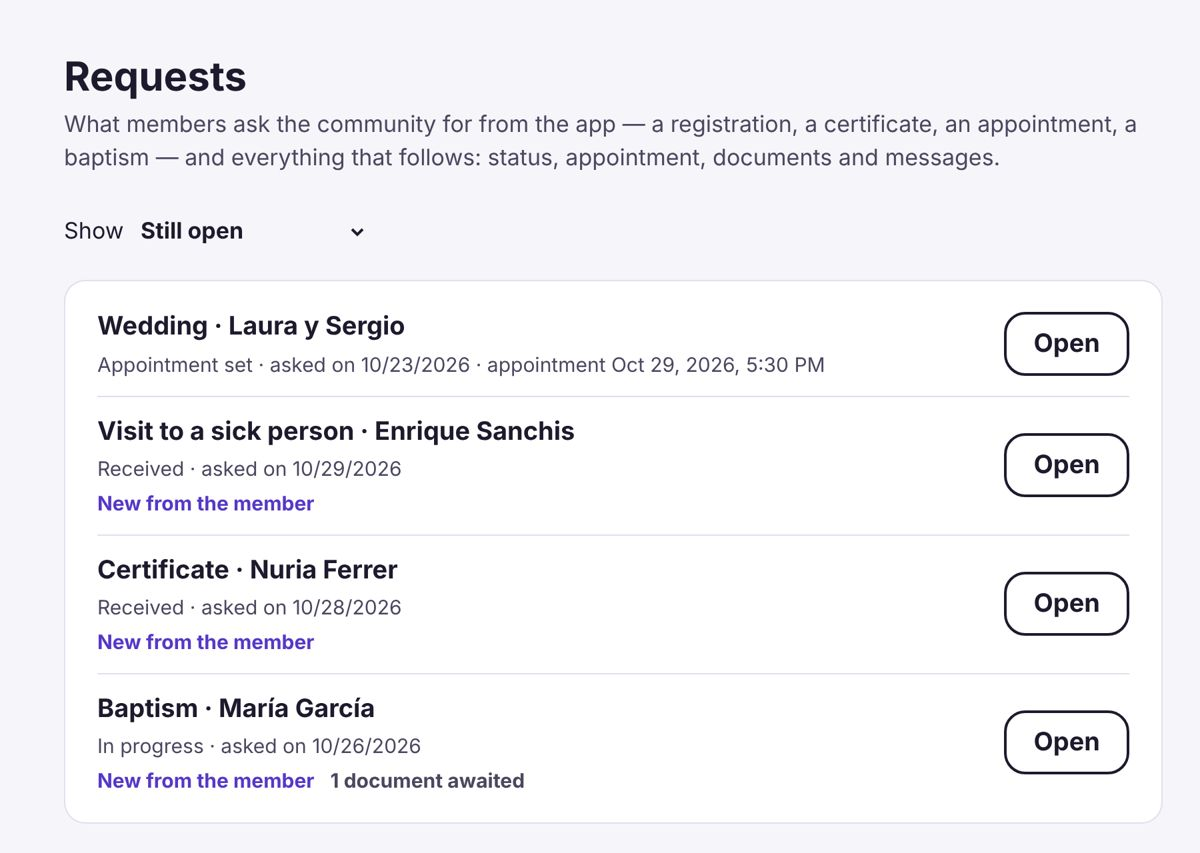
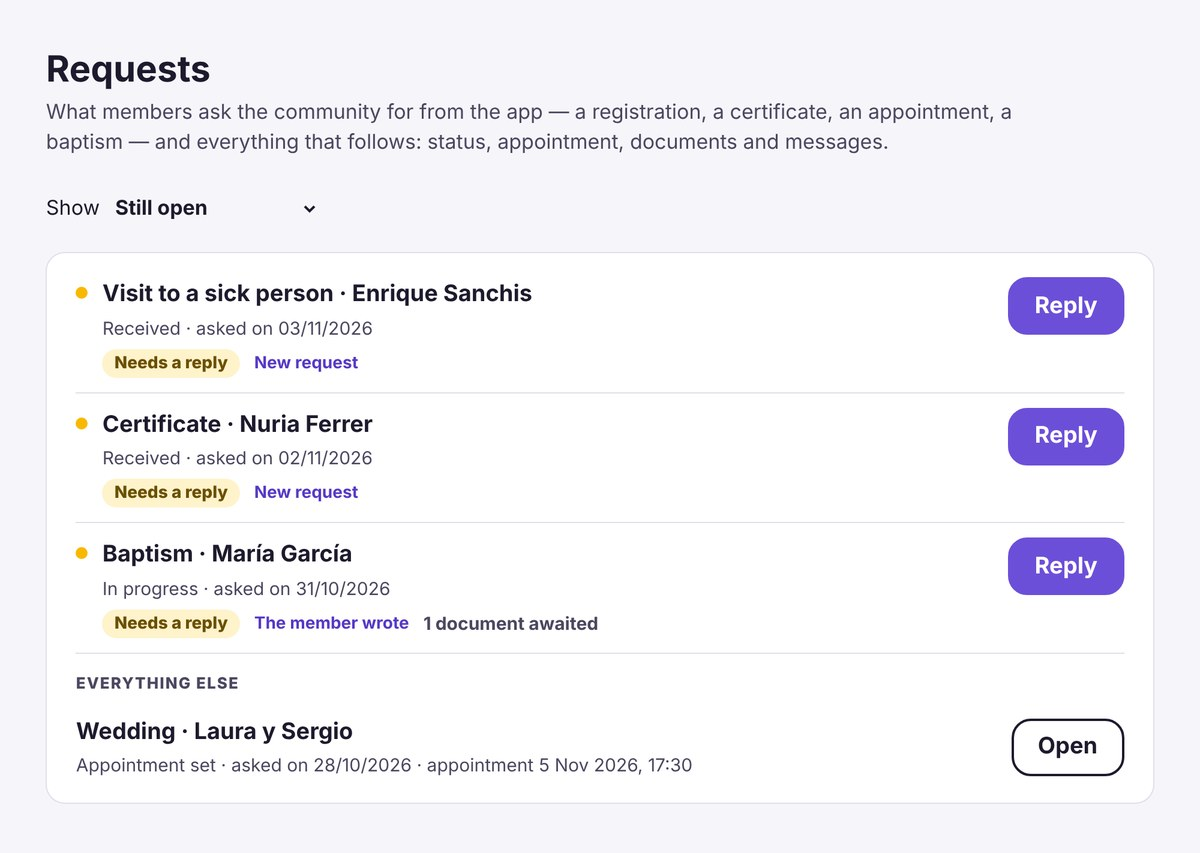
Requests: pin the ones that need a reply on top
Seb picked option B. Requests waiting on the team (new, the member
wrote last, or a document came in: the rule behind the menu's count,
taken from the dashboard summary) come first with a yellow dot, a
"Needs a reply" label, why, and a filled Reply button. The rest follows
under "Everything else". New strings in all seven languages; the
Requests "Learn more" screenshot is retaken.

Claude-Session: https://claude.ai/code/session_01LBPkTn997tuyRYgSCSdqcC

diff --git a/admin/src/pages/RequestsPage.tsx b/admin/src/pages/RequestsPage.tsx
@@ -23,6 +23,7 @@ import type {
 import { DestructiveButton } from '../components/DestructiveButton';
 import { fromLocalInputValue, toLocalInputValue } from '../format';
 import { typeName } from '../requestTypes';
+import { getDashboard } from '../api/dashboard';
 
 type T = ReturnType<typeof useI18n>['t'];
 
@@ -31,12 +32,22 @@ const STATUSES: ServiceRequestStatus[] = ['received', 'in_progress', 'appointmen
 // What the file picker offers — the backend takes a photo or a PDF, up to 10 MB.
 const DOCUMENT_ACCEPT = 'application/pdf,image/jpeg,image/png,image/webp,image/heic,image/heif';
 
-/** The office's list of requests, still open ones by default. */
+// Why a request waits on the team, by the rule behind the menu's count
+// (backend/src/dashboard/dashboard.service.ts): a new request, the
+// member wrote last, or a document came in since the team last looked.
+type Reason = 'new' | 'memberWrote' | 'newDocument';
+
+/**
+ * The team's list of requests, still open ones by default. Those that
+ * need a reply are pinned on top with a yellow dot, a "Needs a reply"
+ * chip and a Reply button (Seb, 3 Nov 2026), the rest below.
+ */
 export function RequestsPage() {
   const poiId = usePoiId();
   const { t, language } = useI18n();
   const [filter, setFilter] = useState<RequestFilter>('open');
   const [items, setItems] = useState<ServiceRequestSummary[] | null>(null);
+  const [waiting, setWaiting] = useState<Map<string, Reason[]>>(new Map());
   const [error, setError] = useState<string | null>(null);
 
   useEffect(() => {
@@ -44,6 +55,75 @@ export function RequestsPage() {
       .then(setItems)
       .catch(() => setError(t('requests.loadError')));
   }, [poiId, filter]);
+
+  useEffect(() => {
+    getDashboard(poiId)
+      .then((summary) => {
+        const next = new Map<string, Reason[]>();
+        const add = (id: string, reason: Reason) => {
+          const reasons = next.get(id) ?? [];
+          if (!reasons.includes(reason)) next.set(id, [...reasons, reason]);
+        };
+        summary.newRequests.forEach((r) => add(r.id, 'new'));
+        summary.awaitingReply.forEach((r) => add(r.id, 'memberWrote'));
+        summary.documentsToCheck.forEach((d) => add(d.requestId, 'newDocument'));
+        setWaiting(next);
+      })
+      .catch(() => setWaiting(new Map()));
+  }, [poiId]);
+
+  const reasonName = (reason: Reason) =>
+    reason === 'new'
+      ? t('requests.reasonNew')
+      : reason === 'memberWrote'
+        ? t('requests.reasonMemberWrote')
+        : t('requests.reasonNewDocument');
+
+  const pinned = items?.filter((item) => waiting.has(item.id)) ?? [];
+  const rest = items?.filter((item) => !waiting.has(item.id)) ?? [];
+
+  function row(item: ServiceRequestSummary) {
+    const reasons = waiting.get(item.id);
+    const label = `${typeName(item.type, t)} · ${item.contactName}`;
+    return (
+      <div key={item.id} className={reasons ? 'card-row request-row request-row-waiting' : 'card-row request-row'}>
+        <div className="request-row-main">
+          {reasons && <span className="request-dot" aria-hidden="true" />}
+          <div>
+            <p className="card-title" style={{ margin: 0 }}>
+              {label}
+            </p>
+            <p className="card-meta">
+              {statusName(item.status, t)} ·{' '}
+              {t('requests.askedOn', { date: new Date(item.createdAt).toLocaleDateString(intlLocale(language)) })}
+              {item.appointmentAt &&
+                ` · ${t('requests.appointmentOn', { date: new Date(item.appointmentAt).toLocaleString(intlLocale(language), { dateStyle: 'medium', timeStyle: 'short' }) })}`}
+            </p>
+            {(reasons || item.documentsPending > 0) && (
+              <p className="request-chips">
+                {reasons && <span className="request-chip-waiting">{t('requests.groupNeedsReply')}</span>}
+                {reasons && <span className="request-chip-reason">{reasons.map(reasonName).join(' · ')}</span>}
+                {item.documentsPending > 0 && (
+                  <span className="badge">
+                    {item.documentsPending === 1
+                      ? t('requests.documentsPendingOne')
+                      : t('requests.documentsPendingMany', { n: item.documentsPending })}
+                  </span>
+                )}
+              </p>
+            )}
+          </div>
+        </div>
+        <Link
+          to={item.id}
+          className={reasons ? 'btn btn-primary' : 'btn'}
+          aria-label={`${reasons ? t('requests.reply') : t('requests.open')}: ${label}`}
+        >
+          {reasons ? t('requests.reply') : t('requests.open')}
+        </Link>
+      </div>
+    );
+  }
 
   return (
     <div>
@@ -72,43 +152,12 @@ export function RequestsPage() {
       {items === null && !error && <p className="muted">{t('requests.loading')}</p>}
       {items?.length === 0 && <p className="muted">{t('requests.empty')}</p>}
 
-      {/* One white card, one row per request. */}
+      {/* One white card: those to answer first, then the rest. */}
       {items !== null && items.length > 0 && (
         <div className="card card-list">
-          {items.map((item) => (
-            <div key={item.id} className="card-row">
-              <div>
-                <p className="card-title" style={{ margin: 0 }}>
-                  {typeName(item.type, t)} · {item.contactName}
-                </p>
-                <p className="card-meta">
-                  {statusName(item.status, t)} ·{' '}
-                  {t('requests.askedOn', { date: new Date(item.createdAt).toLocaleDateString(intlLocale(language)) })}
-                  {item.appointmentAt &&
-                    ` · ${t('requests.appointmentOn', { date: new Date(item.appointmentAt).toLocaleString(intlLocale(language), { dateStyle: 'medium', timeStyle: 'short' }) })}`}
-                </p>
-                {(item.unread || item.documentsPending > 0) && (
-                  <p style={{ margin: '4px 0 0', display: 'flex', gap: 12, flexWrap: 'wrap' }}>
-                    {item.unread && <span className="badge badge-active">{t('requests.unread')}</span>}
-                    {item.documentsPending > 0 && (
-                      <span className="badge">
-                        {item.documentsPending === 1
-                          ? t('requests.documentsPendingOne')
-                          : t('requests.documentsPendingMany', { n: item.documentsPending })}
-                      </span>
-                    )}
-                  </p>
-                )}
-              </div>
-              <Link
-                to={item.id}
-                className="btn"
-                aria-label={`${t('requests.open')}: ${typeName(item.type, t)} · ${item.contactName}`}
-              >
-                {t('requests.open')}
-              </Link>
-            </div>
-          ))}
+          {pinned.map(row)}
+          {pinned.length > 0 && rest.length > 0 && <p className="request-divider">{t('requests.groupOther')}</p>}
+          {rest.map(row)}
         </div>
       )}
     </div>

diff --git a/admin/src/i18n/translations.ts b/admin/src/i18n/translations.ts
@@ -740,6 +740,12 @@ export type Translations = {
     askedOn: string;
     appointmentOn: string;
     unread: string;
+    groupNeedsReply: string;
+    groupOther: string;
+    reasonNew: string;
+    reasonMemberWrote: string;
+    reasonNewDocument: string;
+    reply: string;
     documentsPendingOne: string;
     documentsPendingMany: string;
     backToList: string;
@@ -1757,6 +1763,12 @@ const en: Translations = {
     askedOn: 'asked on {{date}}',
     appointmentOn: 'appointment {{date}}',
     unread: 'New from the member',
+    groupNeedsReply: "Needs a reply",
+    groupOther: "Everything else",
+    reasonNew: "New request",
+    reasonMemberWrote: "The member wrote",
+    reasonNewDocument: "New document in",
+    reply: "Reply",
     documentsPendingOne: '1 document awaited',
     documentsPendingMany: '{{n}} documents awaited',
     backToList: 'All requests',
@@ -2774,6 +2786,12 @@ const es: Translations = {
     askedOn: 'pedida el {{date}}',
     appointmentOn: 'cita el {{date}}',
     unread: 'Novedad del miembro',
+    groupNeedsReply: "Necesita respuesta",
+    groupOther: "Todo lo demás",
+    reasonNew: "Solicitud nueva",
+    reasonMemberWrote: "El miembro escribió",
+    reasonNewDocument: "Documento nuevo recibido",
+    reply: "Responder",
     documentsPendingOne: '1 documento pendiente',
     documentsPendingMany: '{{n}} documentos pendientes',
     backToList: 'Todas las solicitudes',
@@ -3791,6 +3809,12 @@ const fr: Translations = {
     askedOn: 'demandée le {{date}}',
     appointmentOn: 'rendez-vous le {{date}}',
     unread: 'Nouveau de la part du membre',
+    groupNeedsReply: "À répondre",
+    groupOther: "Tout le reste",
+    reasonNew: "Nouvelle demande",
+    reasonMemberWrote: "Le membre a écrit",
+    reasonNewDocument: "Nouveau document reçu",
+    reply: "Répondre",
     documentsPendingOne: '1 document attendu',
     documentsPendingMany: '{{n}} documents attendus',
     backToList: 'Toutes les demandes',
@@ -4808,6 +4832,12 @@ const va: Translations = {
     askedOn: 'demanada el {{date}}',
     appointmentOn: 'cita el {{date}}',
     unread: 'Novetat del membre',
+    groupNeedsReply: "Cal respondre",
+    groupOther: "Tota la resta",
+    reasonNew: "Sol·licitud nova",
+    reasonMemberWrote: "El membre ha escrit",
+    reasonNewDocument: "Document nou rebut",
+    reply: "Respondre",
     documentsPendingOne: '1 document pendent',
     documentsPendingMany: '{{n}} documents pendents',
     backToList: 'Totes les sol·licituds',
@@ -5825,6 +5855,12 @@ const ca: Translations = {
     askedOn: 'demanada el {{date}}',
     appointmentOn: 'cita el {{date}}',
     unread: 'Novetat del membre',
+    groupNeedsReply: "Cal respondre",
+    groupOther: "Tota la resta",
+    reasonNew: "Sol·licitud nova",
+    reasonMemberWrote: "El membre ha escrit",
+    reasonNewDocument: "Document nou rebut",
+    reply: "Respondre",
     documentsPendingOne: '1 document pendent',
     documentsPendingMany: '{{n}} documents pendents',
     backToList: 'Totes les sol·licituds',
@@ -6842,6 +6878,12 @@ const gl: Translations = {
     askedOn: 'pedida o {{date}}',
     appointmentOn: 'cita o {{date}}',
     unread: 'Novidade do membro',
+    groupNeedsReply: "Agarda resposta",
+    groupOther: "Todo o demais",
+    reasonNew: "Solicitude nova",
+    reasonMemberWrote: "O membro escribiu",
+    reasonNewDocument: "Documento novo recibido",
+    reply: "Responder",
     documentsPendingOne: '1 documento pendente',
     documentsPendingMany: '{{n}} documentos pendentes',
     backToList: 'Todas as solicitudes',
@@ -7859,6 +7901,12 @@ const pt: Translations = {
     askedOn: 'pedido a {{date}}',
     appointmentOn: 'marcação a {{date}}',
     unread: 'Novidade do membro',
+    groupNeedsReply: "Precisa de resposta",
+    groupOther: "Todo o resto",
+    reasonNew: "Pedido novo",
+    reasonMemberWrote: "O membro escreveu",
+    reasonNewDocument: "Novo documento recebido",
+    reply: "Responder",
     documentsPendingOne: '1 documento pendente',
     documentsPendingMany: '{{n}} documentos pendentes',
     backToList: 'Todos os pedidos',

diff --git a/admin/src/index.css b/admin/src/index.css
@@ -443,6 +443,72 @@ a {
   padding-bottom: 16px;
 }
 
+/* Requests: the ones that need a reply pinned on top (Seb, 3 Nov 2026),
+   with a yellow dot and a yellow "Needs a reply" label; "Everything
+   else" below a small heading. */
+.request-row-main {
+  display: flex;
+  gap: 12px;
+  min-width: 0;
+}
+
+.request-row-waiting {
+  align-items: flex-start;
+}
+
+.request-dot {
+  flex-shrink: 0;
+  width: 10px;
+  height: 10px;
+  margin-top: 8px;
+  border-radius: 50%;
+  background: #f9b800;
+}
+
+.request-chips {
+  display: flex;
+  flex-wrap: wrap;
+  align-items: center;
+  gap: 6px 12px;
+  margin: 6px 0 0;
+}
+
+.request-chip-waiting {
+  padding: 2px 10px;
+  border-radius: 999px;
+  font-size: 14px;
+  font-weight: 800;
+  color: #6b4f00;
+  background: #fff3cc;
+}
+
+:root[data-theme='dark'] .request-chip-waiting {
+  color: #ffd866;
+  background: #3d3214;
+}
+
+.request-chip-reason {
+  font-size: 14px;
+  font-weight: 700;
+  color: var(--color-primary-strong);
+}
+
+.main .card-list > .request-divider {
+  max-width: none;
+  margin: 0;
+  padding: 16px 0 4px;
+  border-top: 1px solid var(--color-card-border);
+  font-size: 13px;
+  font-weight: 800;
+  letter-spacing: 0.08em;
+  text-transform: uppercase;
+  color: var(--color-text-muted);
+}
+
+.request-divider + .card-row {
+  border-top: none;
+}
+
 /* ---------- Forms: one white block, one row per field ---------- */
 
 /* The label sits small, top-left inside its row, above the value, so
